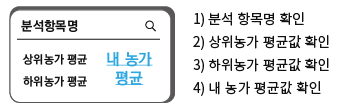
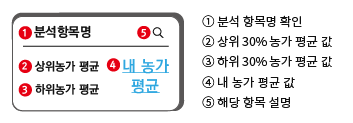
3번 디스크립션 영역 추가

diff --git a/gnb_3_detail.html b/gnb_3_detail.html
@@ -52,6 +52,8 @@
                 <img alt="bi_img" height="42px" src="./img/alion_bi.png"/>
             </a>
         </div>
+
+
         <div class="menutitle">
             <ul>
                 <li><a href="gnb_1.html">생산성 예측</a></li>
@@ -423,7 +425,6 @@
         <style>
 
 
-            /*차트 영역을 보이게 하기 위해서 사용, 기존 전역변수 영역과 충돌하기 때문에 해당 페이지에 별도 생성*/
             body, form, div, p, h1, h2, h3, h4, h5, h6, dl, dt, dd, ul, ol, li, fieldset, th, td, input, textarea, button, select, pre {
                 overflow: visible;
             }
@@ -1041,16 +1042,25 @@
             ];
         </script>
         <!--// 20210816 수정 -->
-        <div class="gnb3_chart_area_hint area_bg area_border_radius">
+        <div class="gnb3_chart_area_hint">
             <div class="hint_title">
                 성적 분석 내용 확인 방법
             </div>
-            <div class="hint_content">
+            <div class="fw400 fs13">
                 <img alt="차트예" src="./img/chart_example.png">
                 <br/>
+                ※ 하위 30% 농가 평균 값 이하일 때, <b class="fc_rred">붉은색 박스</b> 표기<br/>
+            </div>
+        </div>
+        <div class="gnb3_chart_area_discription area_bg area_border_radius">
+            <div class="discription_title">
+                분석항목명이 노출됩니다.
+            </div>
+            <div class="discription_content">
+                해당 항목에 대한 부가 설명이 추가 작성됩니다.<br/>
+                설명이 길어지면 네모박스가 길어지도록 설정했습니다.<br/>
                 <br/>
-                * 상위농가보다 높으면 <b class="fc_green">초록색 박스</b>로 표시<br/>
-                * 하위농가보다 높으면 <b class="fc_rred">빨간색 박스</b>로 표시<br/>
+                해당 영역에서는 별도 스크롤 기능이 발생하지 않습니다.<br/>
             </div>
         </div>
     </div>

diff --git a/css/index.css b/css/index.css
@@ -1845,11 +1845,12 @@ select {
 .gnb3_chart_area_hint {
     display: block;
     position: absolute;
-    padding: 20px;
+    padding-left: 20px;
+    padding-right: 20px;
     top: 20px;
     right: 20px;
     width: 400px;
-    height: 250px;
+    height: 200px;
     overflow-y: scroll;
 }
 
@@ -1860,6 +1861,29 @@ select {
 
 
 .hint_content {
+    margin-top: 10px;
+    font-size: 11pt;
+    font-weight: 400;
+}
+
+.gnb3_chart_area_discription {
+    display: block;
+    position: absolute;
+    padding: 20px;
+    top: 200px;
+    right: 20px;
+    width: 400px;
+    min-height: 200px;
+    height: fit-content;
+}
+
+.discription_title {
+    font-size: 13pt;
+    font-weight: 600;
+}
+
+
+.discription_content {
     margin-top: 10px;
     font-size: 11pt;
     font-weight: 400;

diff --git a/index.html b/index.html
@@ -164,7 +164,7 @@
             </div>
             <div class="fc_black fw400 fs15 mt10 ml50">
                 생산성 향상에 영향을 미치는 각 지표 간의 상관관계를 분석함으로써,<br/>
-                양돈 농가의 생산관리의 방향성을 제시합니다.
+                양돈 농가의 생산관리의 방향성을 제공합니다.
             </div>
             <div class="mt50 ml80 wow animate__fadeInUp">
                 <div class="s1_box fc_black fs15 tc">
